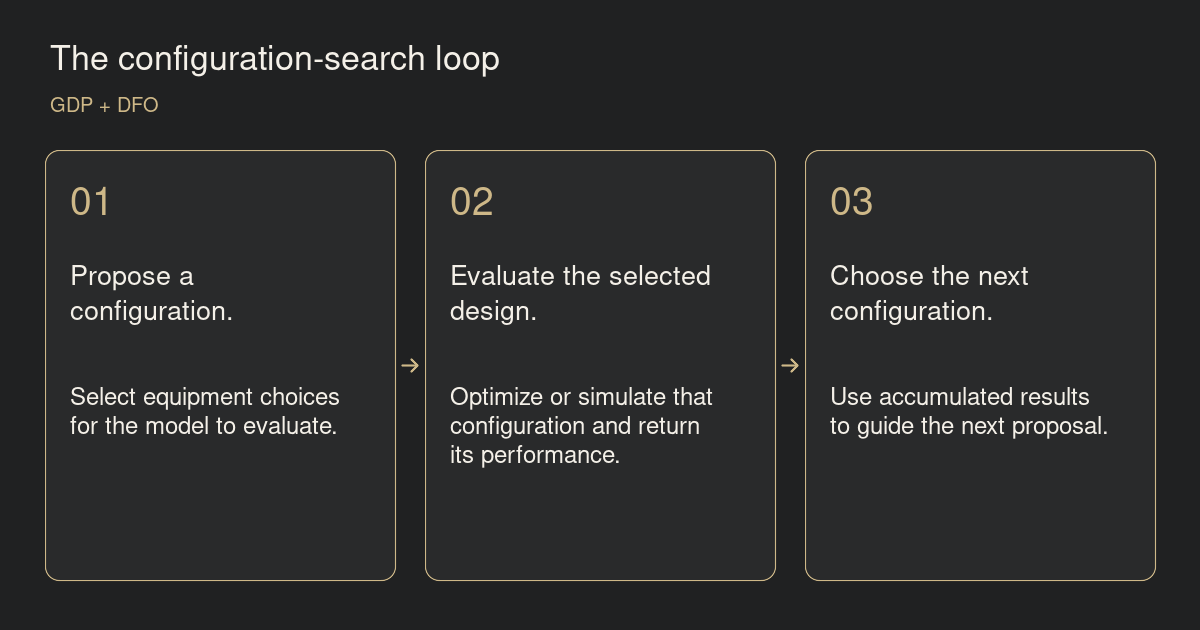
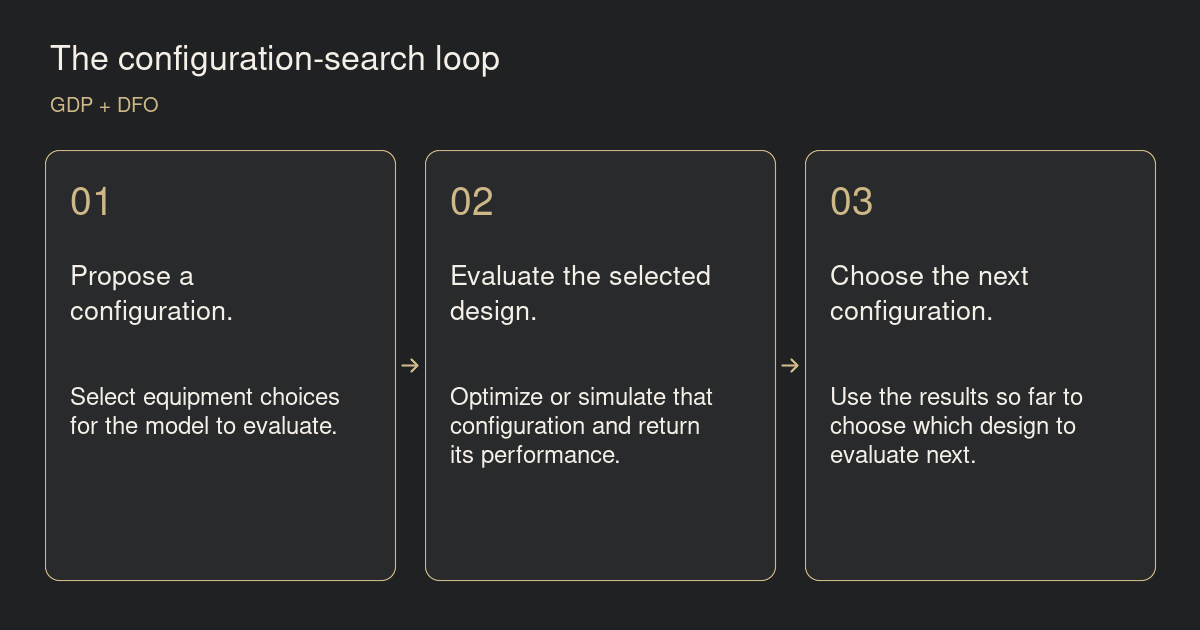
Use plainer language in the GDP blog and translations

Changed region(s): [[0.6783, 0.6032, 0.925, 0.754]]

diff --git a/articles/gdp-configuration-search/es.md b/articles/gdp-configuration-search/es.md
@@ -1,7 +1,7 @@
 ---
 layout: post
 title: "Encontrar mejores diseños de procesos sin evaluarlos todos"
-description: "Cómo la optimización sin derivadas conecta modelos de procesos, simuladores y decisiones de diseño difíciles"
+description: "Usar la optimización sin derivadas para comparar alternativas de equipos en modelos y simuladores de procesos"
 author: "Albert Joon Lee, Woosik Kim y David E. Bernal Neira"
 image: assets/images/gdp-configuration-search/cover-es.webp
 social_image: /assets/images/gdp-configuration-search/cover-es.png
@@ -20,7 +20,7 @@ show_tile: false
 <link rel="stylesheet" href="{{ '/assets/css/ai-agents-research.css' | relative_url }}">
 <script defer src="{{ '/assets/js/reference-previews.js' | relative_url }}"></script>
 
-*Cómo la optimización sin derivadas conecta modelos de procesos, simuladores y decisiones de diseño difíciles*
+*Usar la optimización sin derivadas para comparar alternativas de equipos en modelos y simuladores de procesos*
 
 **Albert Joon Lee, Woosik Kim y David E. Bernal Neira** · Universidad Purdue · noviembre de 2026
 
@@ -36,34 +36,33 @@ Antes de optimizar un proceso químico, los ingenieros deben decidir qué proces
 ¿Qué reactores debe contener?
 ¿Cuántas etapas de separación?
 ¿Dónde deben entrar las alimentaciones?
-Estas decisiones determinan las ecuaciones que describen la planta, las condiciones de operación que puede alcanzar y, en última instancia, su desempeño.
+Estas decisiones determinan qué ecuaciones describen la planta, qué condiciones de operación son posibles y qué desempeño puede alcanzar el proceso.
 
-La dificultad es que evaluar un diseño ya puede ser un problema de optimización considerable.
+Evaluar un diseño puede requerir resolver un problema de optimización propio.
 Para comparar dos configuraciones de reactores, puede ser necesario optimizar las temperaturas, los caudales y los tamaños de los equipos de cada una.
 Si el proceso se describe mediante un simulador, una evaluación puede requerir muchas ejecuciones de simulación.
-Explorar exhaustivamente un gran conjunto de alternativas de diseño puede volverse demasiado costoso en poco tiempo.
+Repetir esto para cientos o miles de configuraciones puede ser demasiado costoso.
 
-Nuestro nuevo artículo, [*Generalized Disjunctive Programming with Derivative-Free Configuration Search*](https://arxiv.org/abs/2611.05508), estudia cómo elegir esas evaluaciones de manera más eficaz.
-En nuestros experimentos, métodos de búsqueda establecidos encontraron diseños de alta calidad utilizando una pequeña fracción de las evaluaciones necesarias para examinar todas las configuraciones.
+Nuestro nuevo artículo, [*Generalized Disjunctive Programming with Derivative-Free Configuration Search*](https://arxiv.org/abs/2611.05508), estudia cómo encontrar buenos diseños con menos evaluaciones.
+En varios problemas de prueba, los métodos de búsqueda existentes alcanzaron los mejores diseños registrados después de evaluar solo una pequeña parte del espacio de configuraciones.
 El mismo enfoque también funcionó con un simulador de procesos farmacéuticos y con un modelo de destilación catalítica cuyas formulaciones convencionales de optimización resultaron difíciles de resolver.
 
 <h2 class="unnumbered" id="model-and-search">El modelo y la búsqueda</h2>
 
-El punto de partida es la programación disyuntiva generalizada, o GDP por sus siglas en inglés.
+Describimos las decisiones de diseño mediante programación disyuntiva generalizada, o GDP por sus siglas en inglés.
 La GDP describe las alternativas y sus relaciones lógicas: seleccionar un equipo activa sus ecuaciones; excluirlo elimina esas ecuaciones del diseño seleccionado.
 Las reglas permiten expresar qué decisiones requieren otras y qué combinaciones están prohibidas.
-Esto brinda a los ingenieros una manera natural de describir un proceso con muchas configuraciones posibles.
+Un ingeniero puede usar estas reglas para especificar qué configuraciones de equipos están permitidas.
 
 Los métodos convencionales resuelven estos modelos combinando las alternativas en un problema de optimización no lineal entera mixta o descomponiendo el modelo en problemas más pequeños.
-Estos enfoques tienen una larga trayectoria en la optimización de procesos.
 Sin embargo, requieren acceso a las ecuaciones que describen cada alternativa, y un simulador puede no exponer esas ecuaciones.
 Incluso cuando todas las ecuaciones están disponibles, la formulación combinada puede presentar dificultades numéricas.
 
-Nuestro enfoque se basa en una representación existente en la que las variables enteras identifican las decisiones de diseño.
+Usamos una representación existente en la que las variables enteras identifican las decisiones de diseño.
 Una configuración se convierte en un punto en un sistema de coordenadas enteras.
 Una vez seleccionado ese punto, fijamos las decisiones sobre los equipos y optimizamos las variables de operación restantes.
 
-Esto crea una interfaz sencilla entre el modelo del proceso y la búsqueda:
+La búsqueda se realiza en tres pasos:
 
 <figure id="research-setup" class="research-setup">
   <a class="research-diagram" href="{{ '/assets/images/gdp-configuration-search/methodology-es.png' | relative_url }}" aria-label="Abrir el diagrama a tamaño completo" title="Abrir el diagrama a tamaño completo">
@@ -83,7 +82,7 @@ Esto crea una interfaz sencilla entre el modelo del proceso y la búsqueda:
     <li>
       <span class="step-number" aria-hidden="true">03</span>
       <h3>Elegir la siguiente configuración.</h3>
-      <p>Usar los resultados acumulados para orientar la siguiente propuesta.</p>
+      <p>Usar los resultados obtenidos hasta ahora para elegir qué diseño evaluar a continuación.</p>
     </li>
   </ol>
   <figcaption><strong>Figura 1.</strong> La GDP describe las alternativas y su lógica.
@@ -96,14 +95,14 @@ Por lo tanto, cualquier método adecuado de optimización sin derivadas que mane
 
 Algunos métodos exploran diseños cercanos y avanzan hacia mejoras.
 Otros construyen modelos sustitutos: aproximaciones de bajo costo de la relación entre las decisiones de diseño y el desempeño.
-Estas aproximaciones ayudan al algoritmo a decidir si conviene refinar una región prometedora o explorar otra.
+El algoritmo usa estas aproximaciones para elegir entre probar diseños cercanos a un buen resultado y probar diseños en otras zonas.
 Aquí, «sin derivadas» se refiere a la búsqueda externa de configuraciones; la optimización dentro de cada configuración puede seguir utilizando derivadas.
 
 <h2 class="unnumbered" id="what-we-tested">Qué probamos</h2>
 
 Comparamos el descenso local, la búsqueda directa, varios métodos con modelos sustitutos y el muestreo uniforme, junto con métodos convencionales de GDP y la enumeración completa.
 Los experimentos incluyeron nueve modelos de procesos, 21 funciones matemáticas de prueba, una simulación de fabricación farmacéutica y una columna de destilación catalítica.
-Tres casos ilustran las distintas razones por las que la búsqueda de configuraciones puede ser útil.
+Los tres casos siguientes muestran cómo se comparan los métodos cuando las evaluaciones son costosas, el modelo proviene de un simulador o los solucionadores convencionales tienen dificultades.
 
 <h2 class="unnumbered" id="reactor-network">Menos resoluciones para una red de reactores</h2>
 
@@ -115,15 +114,14 @@ Evaluarlas todas requiere resolver 465 subproblemas de optimización continua.
 Los métodos con modelos sustitutos MISO y RBFOpt alcanzaron el valor de referencia de la función objetivo en las diez ejecuciones y en nueve de las diez, respectivamente, con una mediana de aproximadamente 30 subproblemas resueltos.
 Eso representa aproximadamente el 6–7% del trabajo necesario para la enumeración.
 
-Las trayectorias de búsqueda ayudan a explicar la diferencia.
+El registro de los diseños que evaluó cada método ayuda a explicar la diferencia.
 En las redes más grandes, el descenso local se estancó repetidamente en la misma configuración de menor calidad.
 Los cambios cercanos no ofrecían mejoras, aunque existía un diseño mejor en otra parte.
 En la red más grande, este mínimo local era aproximadamente un 13% peor que la referencia.
 Dar a un método de descenso un mayor presupuesto de evaluaciones tuvo poco efecto una vez que se había detenido allí.
 
 RBFOpt y MISO podían proponer configuraciones alejadas de su mejor diseño hasta ese momento.
-En este caso, esa capacidad les ayudó a alcanzar una región que la búsqueda local a menudo no encontraba.
-La ventaja provino de elegir una secuencia diferente de diseños para evaluar.
+Así podían probar diseños a los que el descenso local no llegaría mediante una secuencia de cambios que mejoraran el resultado.
 
 <h2 class="unnumbered" id="process-simulator">Trabajar con un simulador de procesos</h2>
 
@@ -137,8 +135,7 @@ La búsqueda de configuraciones puede continuar de todos modos: elegir los equip
 Con un presupuesto de 20 evaluaciones de configuraciones, RBFOpt y MISO encontraron la mejor configuración registrada en las diez ejecuciones.
 La optimización de la operación de cada configuración tomó minutos, por lo que el costo de elegir el siguiente diseño fue pequeño en relación con el de evaluarlo.
 
-Este ejemplo es relevante porque quienes diseñan procesos a menudo ya cuentan con un simulador en el que confían.
-Conectar ese simulador con una búsqueda externa permite explorar alternativas de equipos y conservar el entorno de modelado existente.
+Los ingenieros pueden usar un simulador de procesos existente para comparar alternativas de equipos sin traducir sus ecuaciones a una formulación algebraica de GDP.
 
 <h2 class="unnumbered" id="catalytic-column">Una columna con más de 100,000 configuraciones</h2>
 
@@ -152,8 +149,8 @@ Las coincidencias exactas fueron poco frecuentes, pero muchas ejecuciones termin
 Las medianas de los resultados de D-SDA, NOMAD y MISO quedaron dentro de un margen del 0.14% respecto del mejor valor conocido de la función objetivo tras evaluar aproximadamente el 0.2% del dominio de búsqueda.
 
 El descenso local fue competitivo en este caso.
-Los buenos diseños ocupaban una región que a menudo podía alcanzar y refinar.
-Esto ofrece un contrapunto útil a las redes de reactores: el valor de un método de búsqueda depende de cómo se distribuyen los diseños buenos y malos.
+Aquí, los cambios cercanos a menudo conducían a buenos diseños.
+En las redes de reactores, el descenso local se detuvo repetidamente en un diseño de menor calidad que no tenía ningún vecino que ofreciera una mejora.
 
 Las formulaciones convencionales no lineales enteras mixtas encontraron dificultades más graves.
 Desde el punto inicial publicado, ninguno de los solucionadores probados encontró un diseño a menos del 15% de la referencia en las condiciones reportadas.
@@ -166,39 +163,39 @@ En estos experimentos, los diseños individuales pudieron evaluarse con éxito i
 
 <h2 class="unnumbered" id="choosing-a-method">Elegir un método de búsqueda</h2>
 
-De estos casos se desprenden varias lecciones prácticas.
-
-La primera es que el costo de una evaluación debe influir en la elección del método de búsqueda.
+El costo de una evaluación afecta qué método de búsqueda conviene usar.
 Construir y actualizar un modelo sustituto toma tiempo.
 Si una configuración puede evaluarse casi al instante, ese costo adicional puede superar el ahorro de evaluaciones.
 Para los modelos algebraicos pequeños de nuestro estudio, la enumeración o una reformulación convencional solía ser la opción más sencilla y rápida.
-Cuando las evaluaciones requieren una optimización o una simulación costosa, vale la pena dedicar más esfuerzo a elegir la siguiente.
+Si cada evaluación toma minutos, el tiempo adicional dedicado a elegir el siguiente diseño puede ser pequeño en comparación con el tiempo que se ahorra al evitar evaluaciones.
 
-La segunda es que la representación de las decisiones importa.
+La forma de numerar las alternativas de equipos también afecta la búsqueda.
 Las coordenadas enteras definen qué configuraciones parecen cercanas entre sí.
 Para decisiones con un orden natural, como el número de etapas, esa relación es intuitiva.
 Para categorías como los tipos de reactores, el orden asignado puede ser arbitrario.
 Reordenar esas alternativas cambió el comportamiento de varios métodos en los experimentos de lomustina.
-La interfaz entre el modelo y la búsqueda merece atención, al igual que el propio algoritmo.
+Por lo tanto, al comparar métodos de búsqueda se debe revisar el orden de las alternativas categóricas.
 
-La tercera es que alcanzar exactamente un valor de referencia de la función objetivo ofrece una visión incompleta.
+El número de ejecuciones que alcanzan exactamente un valor de referencia de la función objetivo es solo una medida del desempeño.
 Un método puede no alcanzar un objetivo estricto y, aun así, producir de manera consistente diseños lo suficientemente cercanos para un estudio de ingeniería.
 La comparación de métodos debe incluir la calidad y la variabilidad de sus diseños finales, el número de evaluaciones y el costo computacional total.
 
-<h2 class="unnumbered" id="limits">Qué establecen estos resultados</h2>
+<h2 class="unnumbered" id="limits">Límites de la comparación</h2>
 
-Estos experimentos también tienen límites en cuanto a lo que permiten establecer.
 La mayoría de los problemas de prueba utilizaron respuestas de configuraciones almacenadas para comparar estrategias de búsqueda; en el caso de la columna catalítica, las configuraciones nuevas solicitadas se evaluaron durante la búsqueda.
 La optimización continua de una configuración puede devolver una solución local.
 Nuestras comparaciones utilizaron un número limitado de ejecuciones repetidas, y la referencia de la columna catalítica es el mejor diseño encontrado, sin una prueba confiable de optimalidad global.
 
 <h2 class="unnumbered" id="next-steps">Qué probar a continuación</h2>
 
-Los experimentos respaldan un papel más amplio de la GDP como marco de modelado.
-Una vez que sus decisiones de diseño se conectan con un procedimiento de evaluación, podemos elegir una estrategia de búsqueda adecuada para el problema: enumeración para un dominio pequeño, descenso local cuando el espacio de búsqueda es favorable o búsqueda con modelos sustitutos cuando las evaluaciones son costosas y los mínimos locales causan dificultades.
+Estos experimentos nos dan razones para elegir distintos métodos según el modelo del proceso.
+Cuando hay pocas configuraciones y las evaluaciones son baratas, conviene empezar con la enumeración o una reformulación convencional.
+Cuando los cambios cercanos conducen a buenos diseños, el descenso local puede funcionar bien.
+Cuando cada evaluación es costosa y el descenso local se detiene repetidamente en diseños de menor calidad, conviene considerar un método con un modelo sustituto que pueda probar configuraciones más alejadas.
 
-Para los ingenieros que trabajan con un simulador costoso o una formulación combinada difícil, esto proporciona otra vía para pasar de un modelo de las alternativas a un diseño de proceso útil.
-La siguiente configuración puede elegirse utilizando lo aprendido en las evaluaciones anteriores, lo que permite explorar con mayor eficacia con un presupuesto computacional limitado.
+Un simulador puede proporcionar las evaluaciones sin exponer todas sus ecuaciones.
+Si una formulación combinada es difícil de resolver, evaluar las configuraciones seleccionadas por separado puede producir diseños útiles.
+En ambos casos, se debe comparar la calidad de los diseños encontrados y el tiempo total empleado en encontrarlos.
 
 <h2 class="unnumbered" id="references">Artículo</h2>
 

diff --git a/_posts/2026-11-07-gdp-configuration-search.md b/_posts/2026-11-07-gdp-configuration-search.md
@@ -1,7 +1,7 @@
 ---
 layout: post
 title: "Finding Better Process Designs Without Evaluating Them All"
-description: "How derivative-free optimization connects process models, simulators, and difficult design decisions"
+description: "Using derivative-free optimization to compare equipment choices in process models and simulators"
 author: "Albert Joon Lee, Woosik Kim, and David E. Bernal Neira"
 image: assets/images/gdp-configuration-search/cover-en.webp
 social_image: /assets/images/gdp-configuration-search/cover-en.png
@@ -18,7 +18,7 @@ translation_key: gdp-configuration-search
 <link rel="stylesheet" href="{{ '/assets/css/ai-agents-research.css' | relative_url }}">
 <script defer src="{{ '/assets/js/reference-previews.js' | relative_url }}"></script>
 
-*How derivative-free optimization connects process models, simulators, and difficult design decisions*
+*Using derivative-free optimization to compare equipment choices in process models and simulators*
 
 **Albert Joon Lee, Woosik Kim, and David E. Bernal Neira** · Purdue University · November 2026
 
@@ -34,34 +34,33 @@ Before engineers can optimize a chemical process, they must decide what process 
 Which reactors should it contain?
 How many separation stages?
 Where should the feeds enter?
-These choices determine the equations that describe the plant, the operating conditions it can achieve, and ultimately its performance.
+These choices determine which equations describe the plant, which operating conditions are possible, and how well the process can perform.
 
-The difficulty is that evaluating a design can already be a substantial optimization problem.
+Evaluating a design can require solving an optimization problem of its own.
 To compare two reactor arrangements, we may need to optimize the temperatures, flow rates, and equipment sizes of each.
 If the process is described by a simulator, an evaluation may require many simulation runs.
-A large collection of design alternatives can quickly become too expensive to explore exhaustively.
+Repeating this for hundreds or thousands of configurations can be too expensive.
 
-Our new paper, [*Generalized Disjunctive Programming with Derivative-Free Configuration Search*](https://arxiv.org/abs/2611.05508), studies how to choose those evaluations more effectively.
-In our experiments, established search methods found high-quality designs using a small fraction of the evaluations required to examine every configuration.
+Our new paper, [*Generalized Disjunctive Programming with Derivative-Free Configuration Search*](https://arxiv.org/abs/2611.05508), studies how to find good designs with fewer evaluations.
+On several test problems, existing search methods reached the best recorded designs after evaluating only a small part of the configuration space.
 The same approach also worked with a pharmaceutical process simulator and with a catalytic distillation model whose conventional optimization formulations proved difficult to solve.
 
 <h2 class="unnumbered" id="model-and-search">The model and the search</h2>
 
-The starting point is generalized disjunctive programming, or GDP.
+We describe the design choices using generalized disjunctive programming, or GDP.
 GDP describes alternatives and their logical relationships: selecting a piece of equipment activates its equations; excluding it removes those equations from the selected design.
 Rules can express which choices require one another and which combinations are forbidden.
-This gives engineers a natural way to describe a process with many possible configurations.
+An engineer can use these rules to specify which equipment arrangements are allowed.
 
 Conventional methods solve these models by combining the alternatives into a mixed-integer nonlinear optimization problem or by decomposing the model into smaller problems.
-These approaches have a long history in process optimization.
 They require access to the equations describing every alternative, however, and a simulator may not expose those equations.
 Even when all the equations are available, the combined formulation can be numerically difficult.
 
-Our approach builds on an existing representation in which integer variables identify the design choices.
+We use an existing representation in which integer variables identify the design choices.
 A configuration becomes a point in an integer coordinate system.
 Once that point is selected, we fix the equipment choices and optimize the remaining operating variables.
 
-This creates a simple interface between the process model and the search:
+The search proceeds in three steps:
 
 <figure id="research-setup" class="research-setup">
   <a class="research-diagram" href="{{ '/assets/images/gdp-configuration-search/methodology-en.png' | relative_url }}" aria-label="Open the diagram at full size" title="Open the diagram at full size">
@@ -81,7 +80,7 @@ This creates a simple interface between the process model and the search:
     <li>
       <span class="step-number" aria-hidden="true">03</span>
       <h3>Choose the next configuration.</h3>
-      <p>Use accumulated results to guide the next proposal.</p>
+      <p>Use the results so far to choose which design to evaluate next.</p>
     </li>
   </ol>
   <figcaption><strong>Figure 1.</strong> GDP describes the alternatives and their logic.
@@ -94,14 +93,14 @@ Any suitable derivative-free method that handles integer variables can therefore
 
 Some methods explore nearby designs and move toward improvements.
 Others build surrogate models: inexpensive approximations of the relationship between design choices and performance.
-These approximations help the algorithm decide whether to refine a promising region or explore somewhere else.
+The algorithm uses these approximations to choose between testing designs near a good result and trying designs elsewhere.
 “Derivative-free” refers here to the outer configuration search; the optimization inside each configuration can still use derivatives.
 
 <h2 class="unnumbered" id="what-we-tested">What we tested</h2>
 
 We compared local descent, direct search, several surrogate methods, and uniform sampling, alongside conventional GDP methods and full enumeration.
 The experiments included nine process models, 21 mathematical test functions, a pharmaceutical manufacturing simulation, and a catalytic distillation column.
-Three cases illustrate the different reasons configuration search can help.
+The three cases below show how the methods compare when evaluations are expensive, a simulator supplies the model, or conventional solvers have difficulty.
 
 <h2 class="unnumbered" id="reactor-network">Fewer solves for a reactor network</h2>
 
@@ -113,15 +112,14 @@ Evaluating them all requires solving 465 continuous optimization subproblems.
 The surrogate methods MISO and RBFOpt reached the reference objective in ten and nine of ten runs, respectively, with median workloads of about 30 subproblem solves.
 That is roughly 6–7% of the work required for enumeration.
 
-The search histories help explain the difference.
+The records of which designs each method evaluated help explain the difference.
 On the larger networks, local descent repeatedly settled at the same inferior configuration.
 Nearby changes offered no improvement, even though a better design existed elsewhere.
 On the largest network, this local minimum was about 13% worse than the reference.
 Giving a descent more evaluation budget did little once it had stopped there.
 
 RBFOpt and MISO could propose configurations far from their current best design.
-In this case, that ability helped them reach a region that local search often missed.
-The benefit came from choosing a different sequence of designs to evaluate.
+They could therefore test designs that local descent would not reach through a sequence of improving moves.
 
 <h2 class="unnumbered" id="process-simulator">Working with a process simulator</h2>
 
@@ -135,8 +133,7 @@ Configuration search can still proceed: choose the equipment, optimize its opera
 With a budget of 20 configuration evaluations, RBFOpt and MISO found the best recorded configuration in all ten runs.
 Each configuration’s operating optimization took minutes, making the cost of choosing the next design small relative to the cost of evaluating it.
 
-This example matters because process designers often already have a simulator they trust.
-Connecting that simulator to an outer search offers a way to explore equipment alternatives while retaining the existing modeling environment.
+Engineers can use an existing process simulator to compare equipment alternatives without translating its equations into an algebraic GDP formulation.
 
 <h2 class="unnumbered" id="catalytic-column">A column with more than 100,000 configurations</h2>
 
@@ -150,8 +147,8 @@ Exact matches were uncommon, but many runs finished close.
 The median results of D-SDA, NOMAD, and MISO were within 0.14% of the best known objective after evaluating about 0.2% of the search domain.
 
 Local descent was competitive here.
-The good designs occupied a region that it could often reach and refine.
-That is a useful counterpoint to the reactor networks: the value of a search method depends on how good and bad designs are arranged.
+Here, nearby changes often led to good designs.
+In the reactor networks, local descent repeatedly stopped at an inferior design with no improving neighbor.
 
 The conventional mixed-integer nonlinear formulations encountered more serious difficulties.
 From the published starting point, none of the tested solvers found a design within 15% of the reference under the reported conditions.
@@ -164,39 +161,39 @@ In these experiments, individual designs could be evaluated successfully even wh
 
 <h2 class="unnumbered" id="choosing-a-method">Choosing a search method</h2>
 
-Several practical lessons follow from these cases.
-
-The first is that the cost of an evaluation should influence the choice of search method.
+The cost of an evaluation affects which search method is worth using.
 Building and updating a surrogate takes time.
 If a configuration can be evaluated almost instantly, that overhead may outweigh the evaluations saved.
 For small algebraic models in our study, enumeration or a conventional reformulation was often the simpler and faster option.
-When evaluations require expensive optimization or simulation, spending more effort to choose the next one becomes worthwhile.
+If each evaluation takes minutes, the extra time spent choosing the next design can be small compared with the time saved by avoiding evaluations.
 
-The second is that the representation of the choices matters.
+The way equipment choices are numbered also affects the search.
 Integer coordinates define which configurations appear close to one another.
 For naturally ordered decisions, such as the number of stages, that relationship is intuitive.
 For categories such as reactor types, the assigned order can be arbitrary.
 Reordering those alternatives changed the behavior of several methods in the lomustine experiments.
-The interface between the model and the search deserves attention alongside the algorithm itself.
+The ordering of categorical choices should therefore be checked when comparing search methods.
 
-The third is that matching a reference objective exactly gives an incomplete picture.
+The number of runs that match a reference objective exactly is only one measure of performance.
 A method can miss a strict target while consistently producing designs close enough for an engineering study.
 Comparing methods should include the quality and variability of their final designs, their evaluation counts, and their total computational cost.
 
-<h2 class="unnumbered" id="limits">What these results establish</h2>
+<h2 class="unnumbered" id="limits">Limits of the comparison</h2>
 
-There are also limits to what these experiments establish.
 Most benchmarks used stored configuration responses to compare search strategies; the catalytic column evaluated newly requested configurations during the search.
 The continuous optimization of a configuration can return a local solution.
 Our comparisons used a limited number of repeated runs, and the catalytic reference is the best design found, without a reliable proof of global optimality.
 
 <h2 class="unnumbered" id="next-steps">What to try next</h2>
 
-What the experiments support is a broader role for GDP as a modeling framework.
-Once its design choices are connected to an evaluation procedure, we can select a search strategy suited to the problem: enumeration for a small domain, local descent for a favorable landscape, or surrogate search when evaluations are expensive and local minima are troublesome.
+These experiments give us reasons to choose different methods for different process models.
+When the number of configurations is small and evaluations are cheap, start with enumeration or a conventional reformulation.
+When nearby changes lead to good designs, local descent can work well.
+When each evaluation is expensive and local descent repeatedly stops at inferior designs, consider a surrogate method that can test configurations farther away.
 
-For engineers facing a costly simulator or a difficult combined formulation, this provides another route from a model of the alternatives to a useful process design.
-The next configuration can be chosen using what previous evaluations have taught us, allowing a limited computational budget to explore more effectively.
+A simulator can supply the evaluations without exposing all its equations.
+If a combined formulation is difficult to solve, evaluating selected configurations separately may still produce useful designs.
+In either case, compare the quality of the designs found and the total time spent finding them.
 
 <h2 class="unnumbered" id="references">Paper</h2>
 
